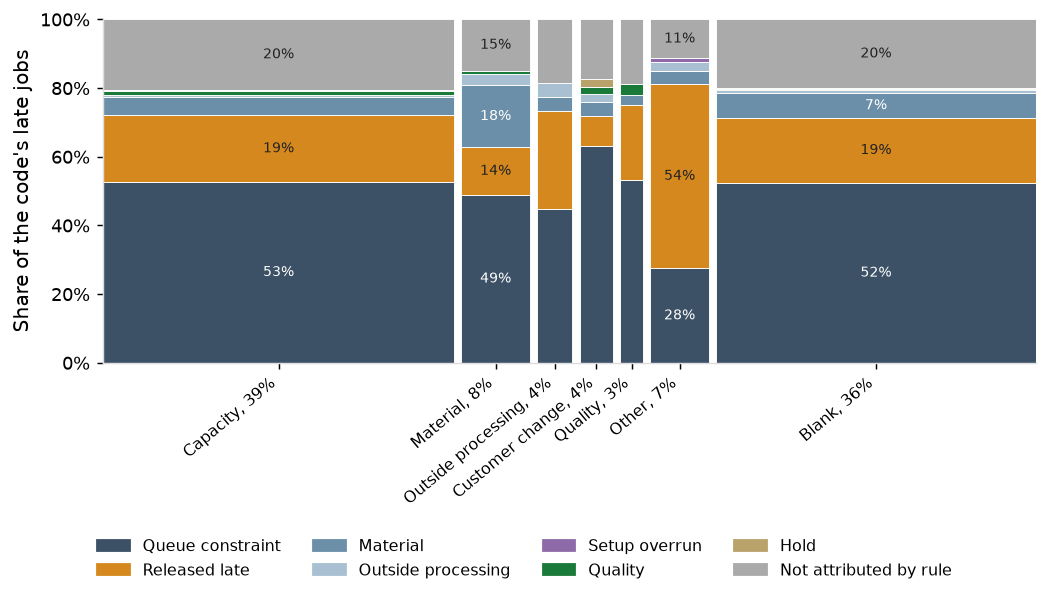
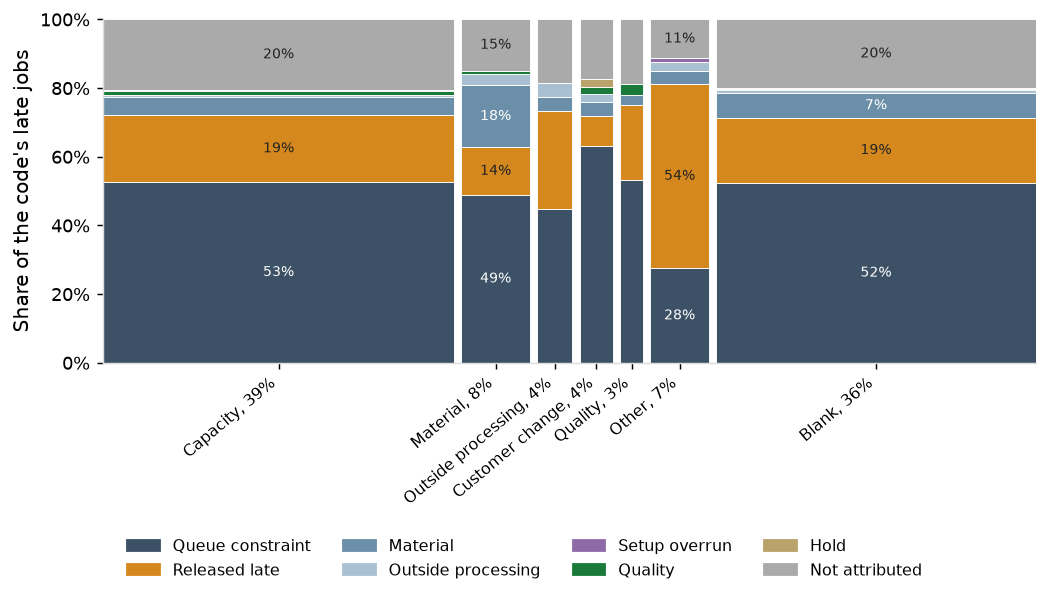
Flow and on-time delivery: late jobs wording and the code chart legend

Changed region(s): [[0.0915, 0.9091, 0.9152, 0.9697]]

diff --git a/docs/reports/lead_time_and_late_jobs.html b/docs/reports/lead_time_and_late_jobs.html
@@ -90,7 +90,7 @@ nav.toc a.sub { font-size: 12px; padding-left: 22px; }
 <p>In 2025, the shop had 1,226 late jobs that shipped a total of 4,647 days late (average of 3.8 days late for each job), with 379 of these late jobs (31%) in Q2-Q4 that shipped a total of 1,232 days late (average of 3.3 days late for each).</p>
 <p>We analyzed the ERP and shop-floor records to arrive at an attribution of lost days (i.e., how many days late the jobs shipped) by driver. For each late job, we considered how many days it ran longer than an on-time job of the same routing class at each stage, as well as material holds and late purchase order receipts. We then assigned each job to a driver.</p>
 <p>In 2025, jobs waiting at work centers (i.e., queue constraints) accounted for 44% of the 4,647 lost days, while jobs that were released late accounted for 17%, and jobs that waited on material and outside processing accounted for 7% and 3%, respectively. In Q2-Q4, jobs that were released late accounted for 46% of the 1,232 lost days, with queue constraint (23%), material (9%) and outside processing (4%) the other main drivers.</p>
-<p>Jobs were released late when they went to the floor with fewer working days to the promised shipment date than the standard quoted lead time for their routing class; this was the largest driver on 191 of the 379 late jobs in Q2-Q4. Each such release should be a decision: flag the job as a rush, with a named approver, and count and monitor these releases weekly. See Appendix Tables <a href='#t7'>7</a>, <a href='#t8a'>8a</a> and <a href='#t8b'>8b</a> for additional detail.</p>
+<p>Jobs were released late when they went to the floor with fewer working days to the promised shipment date than the standard quoted lead time for their routing class; this was the largest driver on 191 of the 379 (50%) late jobs in Q2-Q4. Each such release should be a decision: flag the job as a rush, with a named approver, and count and monitor these releases weekly. See Appendix Tables <a href='#t7'>7</a>, <a href='#t8a'>8a</a> and <a href='#t8b'>8b</a> for additional detail.</p>
 <p>25% of lost days in 2025 and 15% in Q2-Q4 have no attribution. Of the 1,178 non-attributed lost days in 2025, 40% was from work center queue time above on-time median but below the attribution threshold, 24% from setup and run time above normal with no overrun or rework recorded, and 15% from movement between stages. The remainder have no single discernible driver. See Appendix Tables <a href='#t9'>9</a> and <a href='#t10'>10</a> for additional detail.</p>
 <div class='chart-title'>Lost days by attributed driver</div><img alt="Lost days by attributed driver" src="../figures/late_jobs_lost_days_by_cause.png?v=e4dacca7">
 <p>The chart below shows where on the floor the lost days were incurred: each work center's lost days in 2025 and in Q2-Q4, split by attributed driver. It excludes the days attributed to jobs released late (791 of the 4,647 lost days in 2025 and 564 of the 1,232 in Q2-Q4), since those days are lost at order entry, before the job reaches a work center.</p>
@@ -101,8 +101,8 @@ nav.toc a.sub { font-size: 12px; padding-left: 22px; }
 <div class='chart-title'>Late-reason codes as entered on late jobs</div><img alt="Late-reason codes as entered on late jobs" src="../figures/late_jobs_codes_entered.png?v=0f49de80">
 <p>To validate the accuracy of these codes, we compared them against the lost days attribution drivers shown above. We first mapped the late-reason codes to the corresponding attribution drivers: queue constraint and setup overrun count as capacity; material, outside processing and quality as their own codes; a hold and days not attributed as other. The notable exception is that the "released late" attribution driver is not a listed option for late-reason codes; those jobs are mostly coded as capacity or other (137 of the 175 with a code), and count as other in the comparison. We recommend adding this late-reason code into the system, given it accounts for a significant portion of lost days.</p>
 <p>As shown below, the shop's entered reason-codes do not adequately capture the true drivers of lost days. The entered code agrees with the largest attributed cause on just 41.8% of coded late jobs against 36.0% expected by chance (33.7% against 27.1% in Q2-Q4). Queue constraint is the largest attributed driver on 53% of the jobs coded capacity, and on 52% of the jobs with no code and 49% of those coded material. Material is the largest cause on just 17 of the 94 (18%) jobs coded material, outside processing on just 2 of the 49 coded outside processing (4%) and quality on just 1 of the 32 (3%) coded quality. Of the 259 jobs where released late is the largest attributed driver, 94 are coded capacity, 84 carry no code and 43 are coded other. See Appendix Tables <a href='#t12'>12</a> and <a href='#t13'>13</a> for additional detail.</p>
-<p>The shop should consider process changes to include additional options in the late-reason code dropdown menu, as well as to enable shop-floor data capture on the reasons for late jobs once they become late.</p>
-<div class='chart-title'>What the shop coded against what the data shows</div><img alt="What the shop coded against what the data shows" src="../figures/late_jobs_code_against_cause.png?v=44dfd88b">
+<p>To increase the accuracy of its late-reason codes, the shop should consider process changes to include additional options in the code dropdown menu, as well as to enable shop-floor data capture on the reasons for late jobs once they're known, instead of relying on retroactive reviews.</p>
+<div class='chart-title'>What the shop coded against what the data shows</div><img alt="What the shop coded against what the data shows" src="../figures/late_jobs_code_against_cause.png?v=b11c237a">
 
 <h2 id='appendix'>Appendix</h2>
 

diff --git a/analytics/late_jobs/sections.py b/analytics/late_jobs/sections.py
@@ -210,7 +210,7 @@ def fig_mosaic():
     ax.set_ylabel("Share of the code's late jobs")
     ax.set_xticks(centers)
     ax.set_xticklabels([f"{k.capitalize()}, {pct(width[k], 0)}" for k in cross_all.index], rotation=40, ha="right", fontsize=9)
-    labels = [CAUSE_LABEL[k] if k != "not attributable" else "Not attributed by rule" for k in CAUSES]
+    labels = [CAUSE_LABEL[k] for k in CAUSES]
     bottom_legend(f, [Patch(color=CAUSE_COLOR[k]) for k in CAUSES], labels, ncol=4, space=0.1)
     return save(f, "late_jobs_code_against_cause", "What the shop coded against what the data shows")
 
@@ -313,7 +313,7 @@ def report():
              f"{pct(rs['released late'], 0)} of the {n0(r['total'])} lost days, with queue constraint ({pct(rs['constraint queue'], 0)}), material "
              f"({pct(rs['material'], 0)}) and outside processing ({pct(rs['outside processing'], 0)}) the other main drivers.</p>")
     b.append(f"<p>Jobs were released late when they went to the floor with fewer working days to the promised shipment date than the standard quoted lead time for "
-             f"their routing class; this was the largest driver on {n0(r['dominant']['released late'])} of the {n0(len(LR))} late jobs in {REST}. Each such release "
+             f"their routing class; this was the largest driver on {n0(r['dominant']['released late'])} of the {n0(len(LR))} ({pct(r['dominant']['released late'] / len(LR), 0)}) late jobs in {REST}. Each such release "
              f"should be a decision: flag the job as a rush, with a named approver, and count and monitor these releases weekly. {see(1, 5, 6)}</p>")
     queues = [k for k in NAYs.index if k.startswith("queue:") or k == "first-operation queue"]
     b.append(f"<p>{pct(ys['not attributable'], 0)} of lost days in {YEAR} and {pct(rs['not attributable'], 0)} in {REST} have no attribution. Of the "
@@ -350,8 +350,8 @@ def report():
              f"{n0(cross_all.loc['outside processing'].sum())} coded outside processing ({pct(cross_all.loc['outside processing', 'outside processing'] / cross_all.loc['outside processing'].sum(), 0)}) and quality on just {n0(cross_all.loc['quality', 'quality'])} of the "
              f"{n0(cross_all.loc['quality'].sum())} ({pct(cross_all.loc['quality', 'quality'] / cross_all.loc['quality'].sum(), 0)}) coded quality. Of the {n0(rel.sum())} jobs where released late is the largest attributed driver, "
              f"{n0(rel['capacity'])} are coded capacity, {n0(rel['blank'])} carry no code and {n0(rel['other'])} are coded other. {see(3, 4)}</p>")
-    b.append("<p>The shop should consider process changes to include additional options in the late-reason code dropdown menu, as well as to enable shop-floor data "
-             "capture on the reasons for late jobs once they become late.</p>")
+    b.append("<p>To increase the accuracy of its late-reason codes, the shop should consider process changes to include additional options in the code dropdown "
+             "menu, as well as to enable shop-floor data capture on the reasons for late jobs once they're known, instead of relying on retroactive reviews.</p>")
     b.append(chart("What the shop coded against what the data shows", fig_mosaic()))
 
     b.append("<h2 id='rec'>Recommendation and control</h2>")
